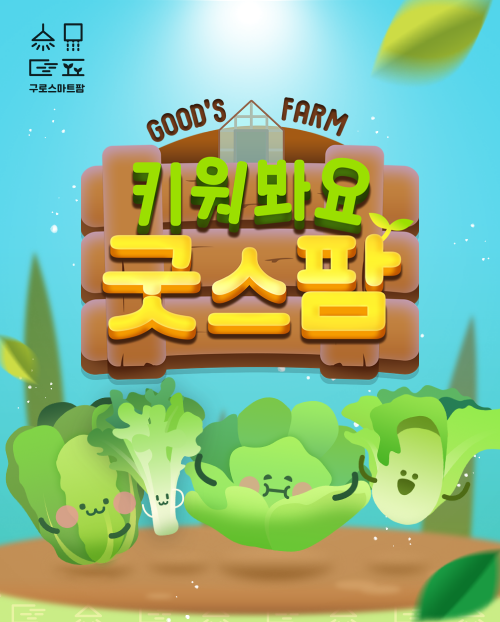
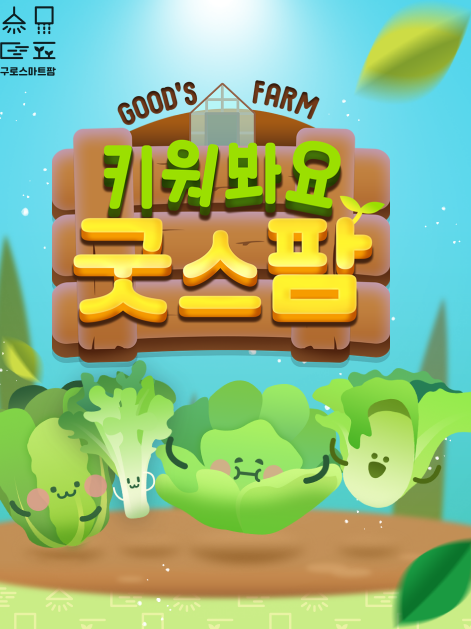
Revert "Style : Leaf, Landingbg"
This reverts commit 6044abfe238387fd70be8e106caab0ce5251ab79.

diff --git a/team_1/src/GameIntro/GameIntro.css b/team_1/src/GameIntro/GameIntro.css
@@ -9,6 +9,7 @@ html, body{
     max-width: 800px;
     background: #fff;
 
+
     font-family: Arial;
     text-align: center;
 }
@@ -25,7 +26,7 @@ html, body{
     max-width: 500px;
     max-height: 1000px;
     
-    display: flex;
+    display: block;
 
     background: url("https://i.ibb.co/P5CNNHk/introbg.png");
     background-repeat: no-repeat;
@@ -40,73 +41,65 @@ html, body{
 .Talk1{
     display: flex;
 
-    max-width: 300px;
-    margin-left: 5%;
+    position: absolute;
+    
+    width: 382px;
+    height: 78px;
+    margin-top: 100px;
+    margin-bottom: 20px;
+    margin-left: auto;
     margin-right: auto;
-    position: relative;
-    margin-top: 30%;
-  
-    border: 0;
+
 }
 
 .Talk2{
     display: flex;
 
-    max-width: 350px;
-    margin-left: 5%;
-    margin-right: auto;
-    position: relative;
-    margin-top: %;
-  
-    border: 0;
+    position: absolute;
+    width: 458px;
+    height: 126px;
+    margin-top: 200px;
+    margin-bottom: 20px;
 }
 
 .Talk3{
     display: flex;
 
-    max-width: 280px;
-    margin-left: 5%;
-    margin-right: auto;
-    position: relative;
-    margin-top: 5%;
-  
-    border: 0;
+    position: absolute;
+    width: 365px;
+    height: 78px;   
+    margin-top: 350px;
+    margin-bottom: 20px;
 }
 
 .Talk4{
     display: flex;
 
-    max-width: 330px;
-    margin-left: 5%;
-    margin-right: auto;
-    position: relative;
-    margin-top: 7%;
-  
-    border: 0;
+    position: absolute;
+    width: 435px;
+    height: 153px;
+    margin-top: 450px;
+    margin-bottom: 20px;
 }
 
 .Talk5{
     display: flex;
 
-    max-width: 270px;
-    margin-left: 5%;
-    margin-right: auto;
-    position: relative;
-    margin-top: 5%;
-  
-    border: 0;
+    position: absolute;
+    width: 339px;
+    height: 78px;
+    margin-top: 600px;
+    margin-bottom: 20px;
 }
 
 .Talk6{
     display: flex;
 
-    max-width: 160px;
-    margin-left: 5%;
-    margin-right: auto;
-    position: relative;
-    margin-top: 7%;
-  
-    border: 0;
+    position: absolute;
+    width: 196px;
+    height: 74px;
+    margin-top: 700px;
+    margin-bottom: 20px;
 }
 
 .Tembtn1{
@@ -114,10 +107,14 @@ html, body{
     position:relative;
 
     max-width: 500px;
-    width: 100%;
-    left: 0px;
-    right: 0px;
+    width: 60%;
     height: auto;
-
+    margin-left: auto;
+    margin-right: auto;
+    
     top: 80%;
+    bottom: 50%;
 }
+
+
+

diff --git a/team_1/src/Landing/Landing.css b/team_1/src/Landing/Landing.css
@@ -4,10 +4,9 @@ html, body{
   height: 100%;
   width: 100%;
 
-  display: block;
+  display: flex;
 
-  max-width: 800px;
-  background: #fff;
+  max-width: 500px;
 
   font-family: Arial;
   text-align: center;
@@ -35,14 +34,6 @@ html, body{
 
   position: relative;
 }
-
-/* .Leaf {
-  background-image: src="img/Leaf.png";
-  max-width: 100%;
-  height: 44%;
-  position: relative;
-  z-index: 0;
-} */ */
 
 .rec {
   width: 100%;
@@ -187,13 +178,25 @@ html, body{
   height: 100%;
   position: relative;
 }
+
 .TopBG_png1 {
   background: src="img/TopBG_png1.png";
   width: 100%;
   height: 100%;
+
   position: absolute;
   z-index: 3;
 }
+
+ .Leaf {
+  background-image: src="img/Leaf.png";
+  width: 100%;
+  height: 100%;
+
+  position: absolute;
+  z-index: 2;
+} */
+
 /* .child-3 {
   background-color: green;
   width: 50px;

diff --git a/team_1/src/Loading/Loading.css b/team_1/src/Loading/Loading.css
@@ -12,9 +12,6 @@ html, body{
 
     font-family: Arial;
     text-align: center;
-    
-    
-
 }
 
 #root {
